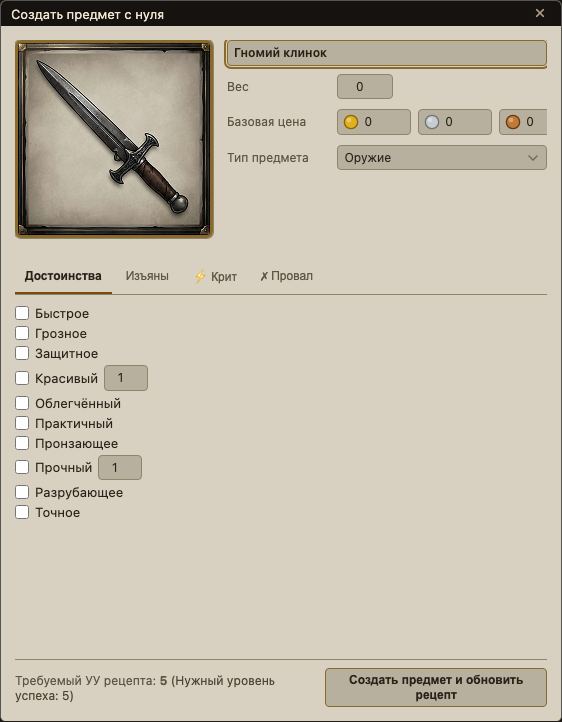
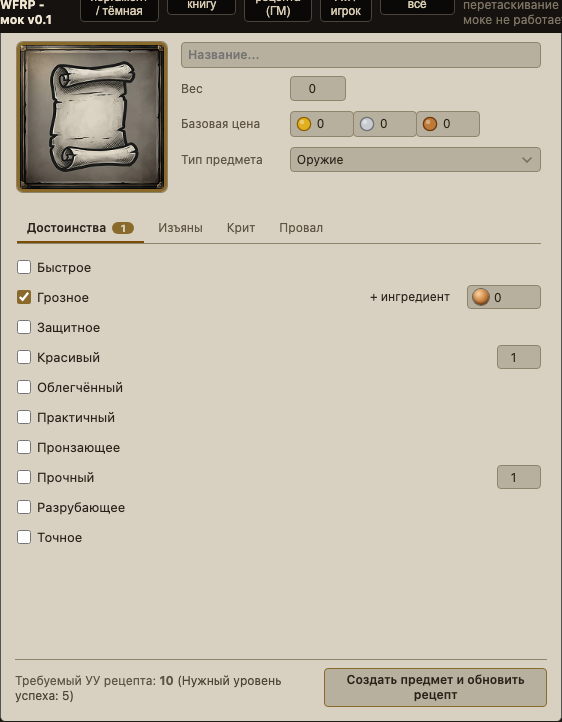
v0.1.23: подписи чекбоксов кликабельны везде, строки свойств фиксированной высоты (соседи не прыгают)

diff --git a/styles/recipe-book.css b/styles/recipe-book.css
@@ -150,7 +150,16 @@
   width: 100%; align-self: stretch; box-sizing: border-box;
   flex: 1; min-height: 0; overflow-y: auto; overflow-x: hidden;
 }
-.wfrp-recipe-book .rb-forge-root .rb-row { padding: 2px 0; }
+/* Строки свойств: фиксированная высота, чтобы включение доп. контента справа
+   (пикер сырья, поле количества) не сдвигало соседние чекбоксы */
+.wfrp-recipe-book .rb-forge-root .rb-row { padding: 0; min-height: 30px; }
+.wfrp-recipe-book .rb-qrow, .wfrp-recipe-book .rb-frow,
+.wfrp-recipe-book .rb-critrow, .wfrp-recipe-book .rb-poolrow { min-height: 30px; }
+/* Сам доп. контент внутрь строки не распирает её */
+.wfrp-recipe-book .rb-forge-extra { height: 26px; }
+.wfrp-recipe-book .rb-forge-extra .rb-num,
+.wfrp-recipe-book .rb-forge-root .rb-num--s { height: 24px !important; }
+.wfrp-recipe-book button.rb-extra-pick { min-height: 24px; height: 24px; }
 .wfrp-recipe-book .rb-forge-root .rb-ing-name { gap: var(--rb-space-2); }
 .wfrp-recipe-book .rb-num--s { width: 44px; flex-basis: 44px; }
 .wfrp-recipe-book .rb-forge-extra { display: inline-flex; align-items: center; gap: var(--rb-space-2); min-width: 0; }

diff --git a/styles/rb-system.css b/styles/rb-system.css
@@ -449,3 +449,13 @@
   font-size: var(--rb-fs-xs); font-weight: 700; text-align: center;
   color: var(--rb-bg); background: var(--rb-gold-soft); border-radius: var(--rb-radius-pill);
 }
+
+/* Подпись у чекбокса кликабельна целиком (Fitts): вся строка - цель */
+.wfrp-recipe-book label.rb-ing-name,
+.wfrp-recipe-book label.rb-field-check,
+.wfrp-recipe-book label.rb-check-label { cursor: pointer; user-select: none; }
+.wfrp-recipe-book label.rb-field-check,
+.wfrp-recipe-book label.rb-check-label { display: flex; align-items: center; gap: var(--rb-space-3); }
+.wfrp-recipe-book label.rb-field-check > span:first-child { flex: 0 0 38%; color: var(--rb-text-dim); font-size: var(--rb-fs-m); }
+.wfrp-recipe-book label.rb-check-label > span:first-child { color: var(--rb-text-dim); font-size: var(--rb-fs-m); }
+.wfrp-recipe-book .rb-prop-label { flex: 1; min-width: 0; }
